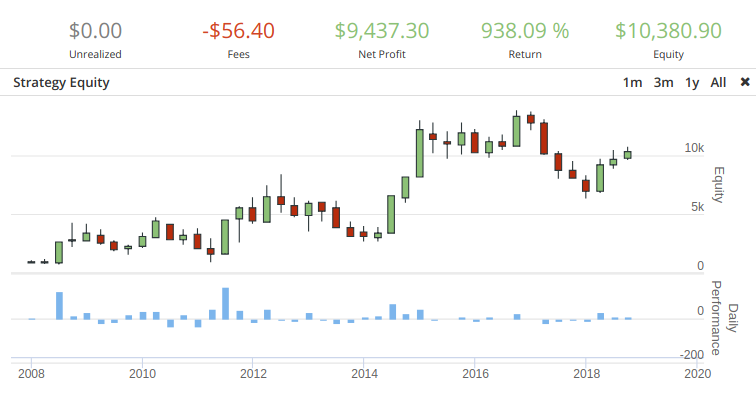
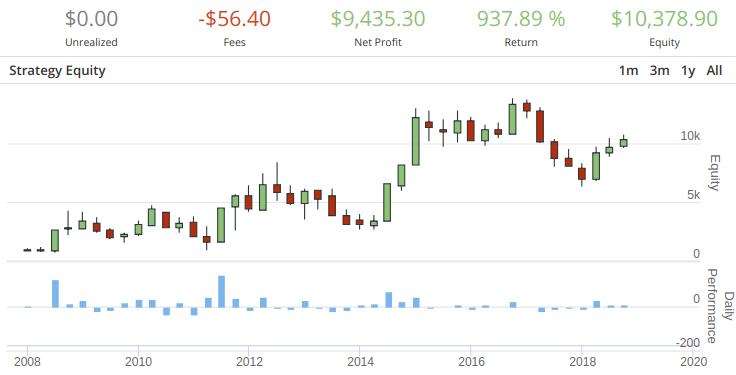
Add algo overall statistics

diff --git a/README.md b/README.md
@@ -2,6 +2,8 @@
 
 ![Backtest Performance](./img/perf.png)
 
+![Overall Statistics](./img/stats.png)
+
 ### Table of Contents
 1. [Intro](#intro)
 2. [Instructions](#instructions)
